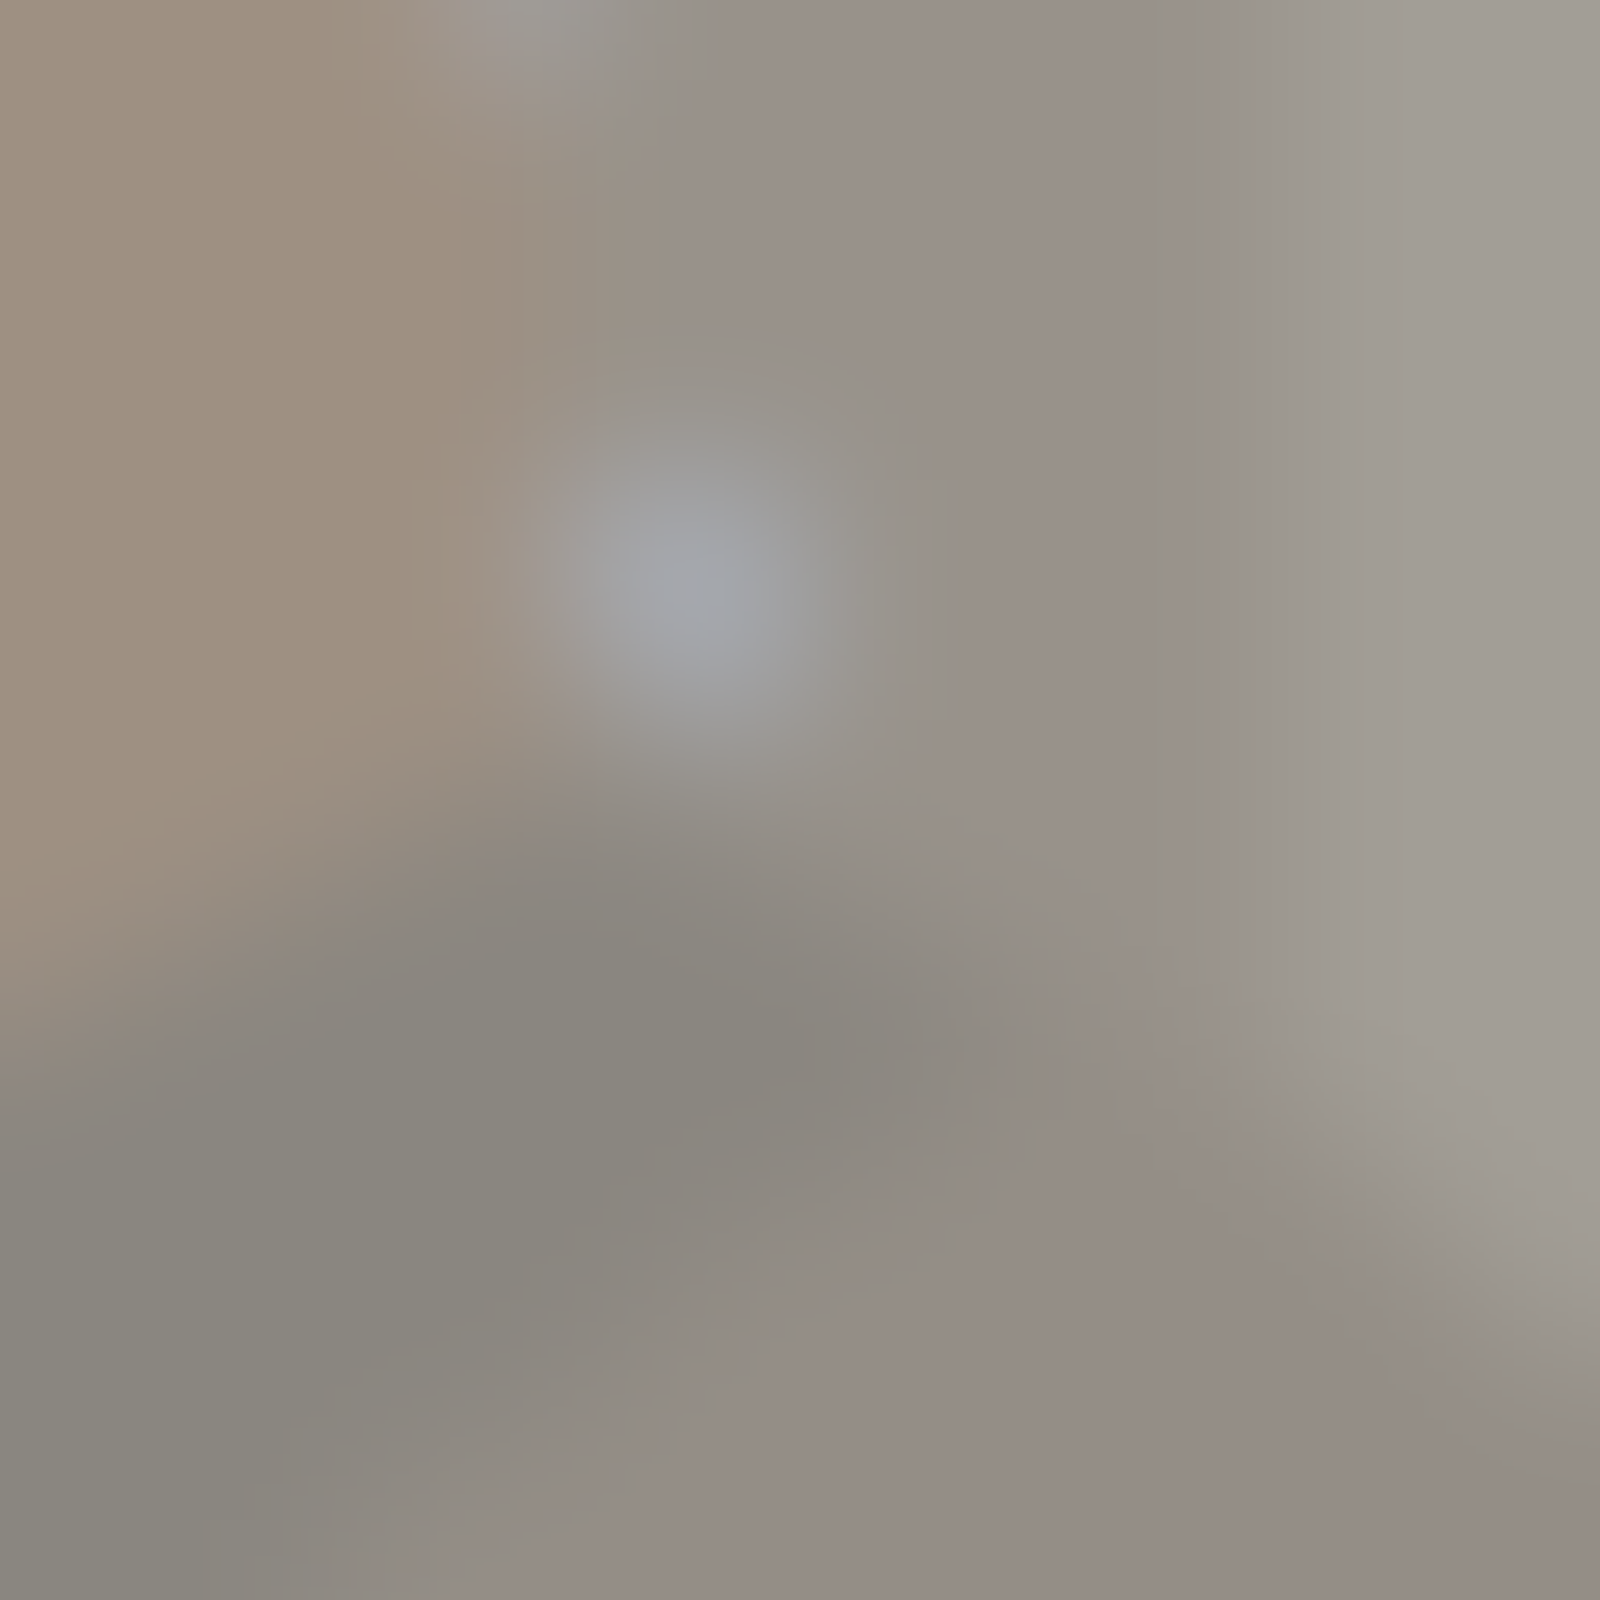
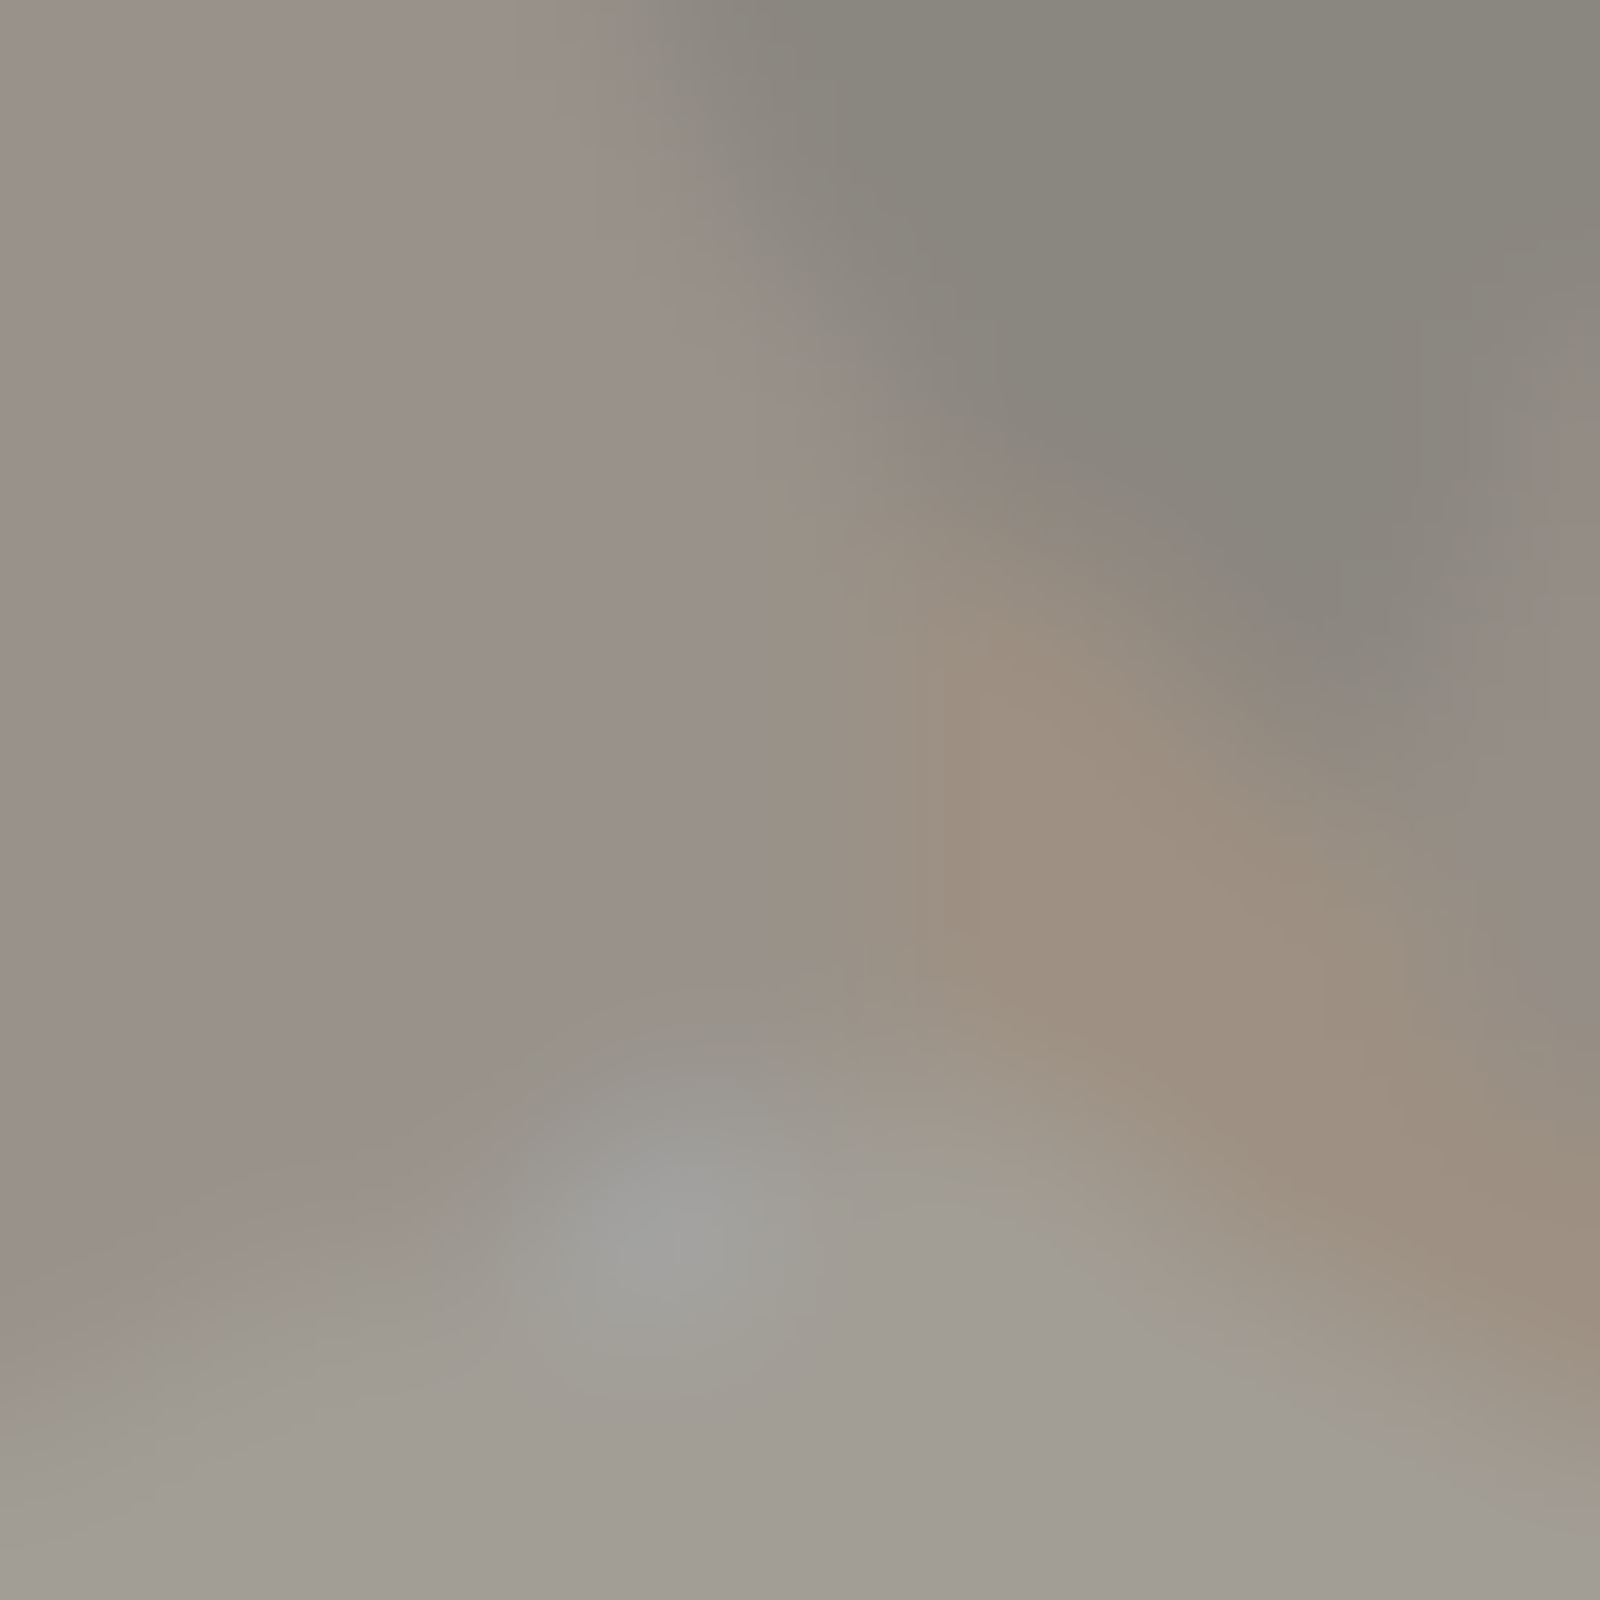
prototype: lock procedural defaults from v4 sweep
Locked values picked by user:
  density_mult   = 0.12  (count_small/med/big = 17/7/1)
  size_scale     = 1.5
  size_variance  = 0.5
  depth_scale    = 1.0
  depth_variance = 1.0
  age_alpha      = 4.0
  min_separation = 1.35

Net visual: ~25 primaries on the 1600x1600 planet, sparse mare-like
coverage with mid-deep tightly-grouped sizes.

Adjusted the seed-variants and archetype-tile renderers to use
proportionally smaller counts for their smaller canvases (4/2/1 and
6/2/1 respectively) — otherwise the locked size_scale=1.5 plus
min_separation=1.35 caused most craters to be rejected.

SURFACE_DESIGN.md parameter table updated to reflect all the new
controls (size_scale, size_variance, depth_scale, depth_variance).

https://claude.ai/code/session_014xZZbBkCGkgHdGrMSpJjDx

Changed region(s): [[0.3125, 0.6875, 0.5, 0.8438], [0.375, 0.3125, 0.5, 0.4375]]

diff --git a/prototypes/planet_visuals/generate.py b/prototypes/planet_visuals/generate.py
@@ -225,9 +225,9 @@ class Crater:
     has_peak: bool
 
 
-def sample_craters(shape, rng, count_small=140, count_med=55, count_big=4,
-                   min_separation=1.15, age_alpha=2.0,
-                   size_scale=1.0, size_variance=1.0):
+def sample_craters(shape, rng, count_small=17, count_med=7, count_big=1,
+                   min_separation=1.35, age_alpha=4.0,
+                   size_scale=1.5, size_variance=0.5):
     """Place primary craters with mostly-random placement (uniform
     coverage, no clumps), then inject a small number of secondary
     craters around each big primary.
@@ -351,6 +351,8 @@ def sample_craters(shape, rng, count_small=140, count_med=55, count_big=4,
 
 def apply_craters(height, craters, rng=None,
                   depth_variance=1.0, depth_scale=1.0):
+    # Defaults locked from the v4 dispersion sweep — sparse mare-like
+    # density with mid-deep craters and tight size buckets.
     """Carve craters with the geometry real lunar craters actually have:
     flat floor + smooth wall + barely-raised rim.
 
@@ -795,9 +797,11 @@ def render_archetype_tiles():
         h += 0.3 * fbm((tile_px, tile_px), 4, 16, 0.6, local_rng)
         mare = mare_field((tile_px, tile_px), local_rng, n=1) * 0.4
         h_with = h - 0.3 * mare
+        # archetype tile is 320x320 = 1/25 of full planet area, but we
+        # want it to look populated — 6/2/1 gives a richer preview.
         h_with = apply_craters(h_with, sample_craters(
             (tile_px, tile_px), local_rng,
-            count_small=40, count_med=15, count_big=1), local_rng)
+            count_small=6, count_med=2, count_big=1), local_rng)
         h_with = h_with + 0.03 * gaussian_blur(
             pink_noise((tile_px, tile_px), local_rng), 1.5)
         sh = hillshade(h_with, z_factor=35.0, smooth_px=1.0)
@@ -919,9 +923,10 @@ def render_seed_variants():
         height = 0.92 * base + 0.08 * detail
         mare = mare_field(shape, rng, n=3)
         h2 = height - 0.20 * mare
+        # seed-variants canvas is 800x800 = 1/4 of full planet area.
         h2 = apply_craters(h2, sample_craters(
             shape, rng,
-            count_small=80, count_med=30, count_big=3), rng)
+            count_small=4, count_med=2, count_big=1), rng)
         h2 = h2 + 0.03 * gaussian_blur(pink_noise(shape, rng), 1.5)
         sh = hillshade(h2, z_factor=35.0, smooth_px=1.0)
         cast = cast_shadows(h2, z_factor=35.0, max_distance_px=40.0)

diff --git a/prototypes/planet_visuals/SURFACE_DESIGN.md b/prototypes/planet_visuals/SURFACE_DESIGN.md
@@ -46,7 +46,11 @@ Six stages, each emits a debug PNG to `output/stage*.png`:
 
 | Parameter | Value | Why |
 |---|---|---|
-| `count_small/med/big` | 126 / 49 / 3 | Highland-density preset, picked from the v3 dispersion sweep at density_mult=0.9 |
+| `count_small/med/big` | 17 / 7 / 1 | Sparse mare-like preset, picked from the v4 dispersion sweep at density_mult=0.12 |
+| `size_scale` | 1.5 | Uniform multiplier on all crater radii |
+| `size_variance` | 0.5 | Tight buckets — most craters near each bucket's centre size |
+| `depth_scale` | 1.0 | Uniform multiplier on baseline depth |
+| `depth_variance` | 1.0 | Wide spread of per-crater depths around the mean |
 | Radii ranges | 8-18 / 18-42 / 42-110 px | Power-law size mix |
 | `min_separation` | 1.35 × (r1+r2) | Looser gives a less Bridson-clustered look at this density |
 | Bridson growth ratio | 15% near, 85% global | Mostly uniform, Bridson rescue only |
@@ -66,7 +70,7 @@ Six stages, each emits a debug PNG to `output/stage*.png`:
 
 | Per-crater random | Distribution | Range |
 |---|---|---|
-| `depth_jitter` | Beta(2.2, 2.2) × 1.6 + 0.15 | 0.15..1.75 |
+| `depth_jitter` | 1.0 + (Beta(2.2, 2.2) × 1.6 − 0.8) × `depth_variance`, clipped at 0.05 | depth_variance=1 → 0.20..1.80 |
 | `age` | Beta(4.0, 1.5) (heavily skewed older) | 0..1 — calibrated for highland realism |
 | `depth_amp` | -0.42 × sharp × jitter | -0.05 to -0.66 |
 
